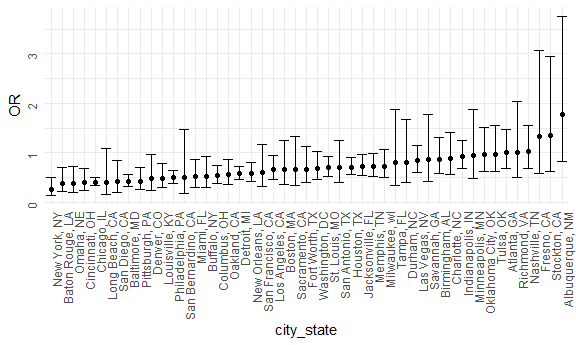
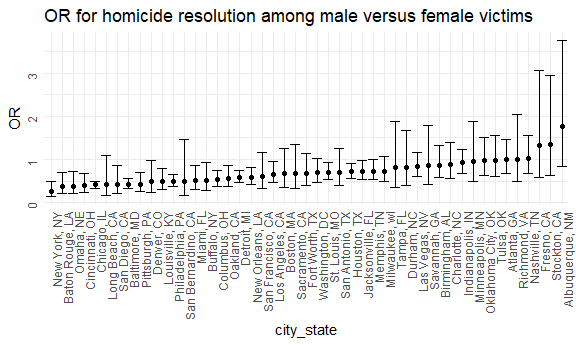
final commit

diff --git a/p8105_hw6_heb2133.md b/p8105_hw6_heb2133.md
@@ -5,7 +5,7 @@ Homework 6
 library(tidyverse)
 ```
 
-    ## -- Attaching packages -------------------------------------------------------------------- tidyverse 1.3.0 --
+    ## -- Attaching packages --------------------------------------------- tidyverse 1.3.0 --
 
     ## v ggplot2 3.3.2     v purrr   0.3.4
     ## v tibble  3.0.3     v dplyr   1.0.2
@@ -14,7 +14,7 @@ library(tidyverse)
 
     ## Warning: package 'ggplot2' was built under R version 4.0.3
 
-    ## -- Conflicts ----------------------------------------------------------------------- tidyverse_conflicts() --
+    ## -- Conflicts ------------------------------------------------ tidyverse_conflicts() --
     ## x dplyr::filter() masks stats::filter()
     ## x dplyr::lag()    masks stats::lag()
 
@@ -193,7 +193,8 @@ model_resuls_df %>%
   ggplot(aes(x = city_state, y = OR)) +
   geom_point() +
   geom_errorbar(aes(ymin = CI_lower, ymax = CI_upper)) + 
-  theme(axis.text = element_text(angle = 90, hjust = 1))
+  theme(axis.text = element_text(angle = 90, hjust = 1)) + 
+  labs(title = "OR for homicide resolution among male versus female victims")
 ```
 
 <img src="p8105_hw6_heb2133_files/figure-gfm/unnamed-chunk-5-1.png" width="90%" />
@@ -372,8 +373,8 @@ cross_df %>%
     names_prefix = "rmse_"
     ) %>% 
   ggplot(aes(x = model, y = rmse)) +
-  geom_violin(
-  )
+  geom_violin() + 
+  labs(title = "comparing model RMSE")
 ```
 
 <img src="p8105_hw6_heb2133_files/figure-gfm/unnamed-chunk-8-1.png" width="90%" />
@@ -413,3 +414,122 @@ weather_df =
 
 Focusing on simple linear regression with tmax as the response and tmin
 as the predictor.
+
+``` r
+weather_model_df = 
+  lm(tmax ~ tmin, data = weather_df)
+```
+
+Getting quantities of r^2 and log(β0∗β1) using 5000 bootstrap sample:
+
+``` r
+boot_sample = function(df) {
+  
+  sample_frac(df, replace = TRUE)
+  
+}
+
+boot_strap =
+  tibble(
+    strap_number = 1:5000,
+    strap_sample = rerun(5000, boot_sample(weather_df))
+  )
+
+boot_results = 
+  boot_strap %>% 
+  mutate(
+    models = map(.x = strap_sample,
+                 ~lm(tmax ~ tmin, 
+                     data = .x)),
+    results_r = map(models, broom::glance),
+    results_log = map(models, broom::tidy)
+  ) %>% 
+  select(strap_number, results_r, results_log) %>% 
+  unnest(results_r, results_log) %>% 
+  select(strap_number, term, estimate, r.squared)
+```
+
+    ## Warning: unnest() has a new interface. See ?unnest for details.
+    ## Try `df %>% unnest(c(results_r, results_log))`, with `mutate()` if needed
+
+``` r
+# cleaning up for plots and final estimates
+boot_results_clean = 
+  boot_results %>% 
+    pivot_wider(
+               names_from = term,
+               values_from = estimate
+               ) %>% 
+  rename("intercept" = "(Intercept)") %>% 
+  mutate(
+    log_est = log(intercept*tmin)
+  ) %>% 
+  select(-intercept, -tmin)
+```
+
+Plotting distribution of estimates:
+
+``` r
+boot_results_clean %>% 
+  ggplot(aes(x = r.squared)) +
+  geom_density() + 
+  labs(title = "distribution of r^2 from boot strap samples")
+```
+
+<img src="p8105_hw6_heb2133_files/figure-gfm/unnamed-chunk-12-1.png" width="90%" />
+
+``` r
+boot_results_clean %>% 
+  ggplot(aes(x = log_est)) + 
+  geom_density() + 
+  labs(title = "distribution of loglog(β0*β1) from boot strap samples",
+       x = "log(β0*β1)")
+```
+
+<img src="p8105_hw6_heb2133_files/figure-gfm/unnamed-chunk-12-2.png" width="90%" />
+
+The above plots demonstrate the distribution of r^ 2 and log(β0∗β1) from
+5000 bootstrap samples of our weather data. From these plots, we can see
+that these terms are relatively normally distributed. The average of the
+r^2 terms from these samples seems to be around 9.1. The average of our
+log(β0∗β1) terms from these samples seems to be between 2.00-2.025.
+
+Constructing the 95% CI for r^2 :
+
+``` r
+boot_results_clean %>% 
+  summarise(
+    point_estimate = mean(r.squared),
+    CI_lower = quantile(r.squared, 0.025),
+    CI_upper = quantile(r.squared, 0.975)
+  ) %>% 
+  knitr::kable(digits = 4)
+```
+
+| point\_estimate | CI\_lower | CI\_upper |
+| --------------: | --------: | --------: |
+|          0.9115 |    0.8944 |    0.9271 |
+
+The point estimate in this table is the average r^2 across all 5000
+bootstrap samples. From the above table, we are 95% confident that the
+true r^2 lies between 0.8940 and 0.9275.
+
+Constructing the 95% CI for log(β0\*β1) :
+
+``` r
+boot_results_clean %>% 
+  summarise(
+    point_estimate = mean(log_est),
+    CI_lower = quantile(log_est, 0.025),
+    CI_upper = quantile(log_est, 0.975)
+  ) %>% 
+  knitr::kable(digits = 4)
+```
+
+| point\_estimate | CI\_lower | CI\_upper |
+| --------------: | --------: | --------: |
+|          2.0131 |     1.966 |    2.0586 |
+
+The point estimate in this table is the average log(β0 \* β1) across all
+5000 bootstrap samples. From the above table, we are 95% confident that
+the true log(β0\*β1) lies between 1.9648 and 2.0593.
